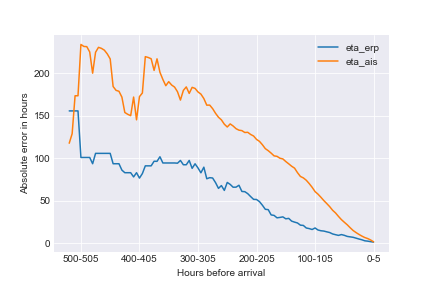
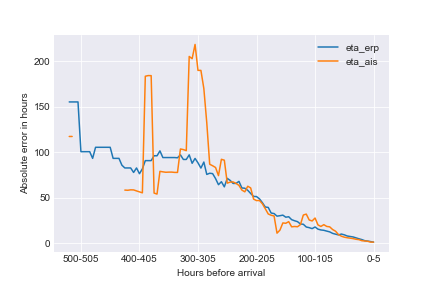
her

diff --git a/Maritime/percentage diff.py b/Maritime/percentage diff.py
@@ -38,8 +38,8 @@ for i in range(n):
    time_low = 0 
    time_high = bracketwidth
    ata_ais = ut.ata_Extract(df, track_ids[i])[0]
-   time_1 = '0001-01-01 00:00:00' 
-   denom = ut.TimeDifference(time_1, ata_ais)
+   #time_1 = '0001-01-01 00:00:00' 
+   #denom = ut.TimeDifference(time_1, ata_ais)
    for j in range(length):
        erp, ais = ut.Extract_time_brackets(df, time_low, time_high, track_ids[i])
        time_low += bracketwidth
@@ -48,10 +48,10 @@ for i in range(n):
        l = len(ais)
        if k != 0: 
            for n in range(k):
-               erp_est_pct[i, j] += 100*ut.TimeDifference(erp[n], ata_ais)/(k*denom) 
+               erp_est_pct[i, j] += ut.TimeDifference(erp[n], ata_ais)/k 
        if l != 0:
            for n in range(l):
-               ais_est_pct[i, j] += 100*ut.TimeDifference(ais[n], ata_ais)/(l*denom) 
+               ais_est_pct[i, j] += ut.TimeDifference(ais[n], ata_ais)/l 
 
 # Sum points in the same times and means
 mean_ais = np.zeros(points)
@@ -59,6 +59,15 @@ mean_erp = np.zeros(points)
 for i in range(points):
     mean_erp[i] = np.sum(erp_est_pct[:,i])/(np.count_nonzero(erp_est_pct[:,i])) 
     mean_ais[i] = np.sum(ais_est_pct[:,i])/(np.count_nonzero(ais_est_pct[:,i])) 
+
+    
+percent_ais = np.zeros(points)
+percent_erp = np.zeros(points)
+
+for i in range(points-1):
+    percent_ais[i+1] = (mean_ais[i]-mean_ais[i-1])/mean_ais[i]
+    percent_erp[i+1] = (mean_erp[i]-mean_erp[i-1])/mean_erp[i]
+
 
 #%% Plotting
 zoom = points
